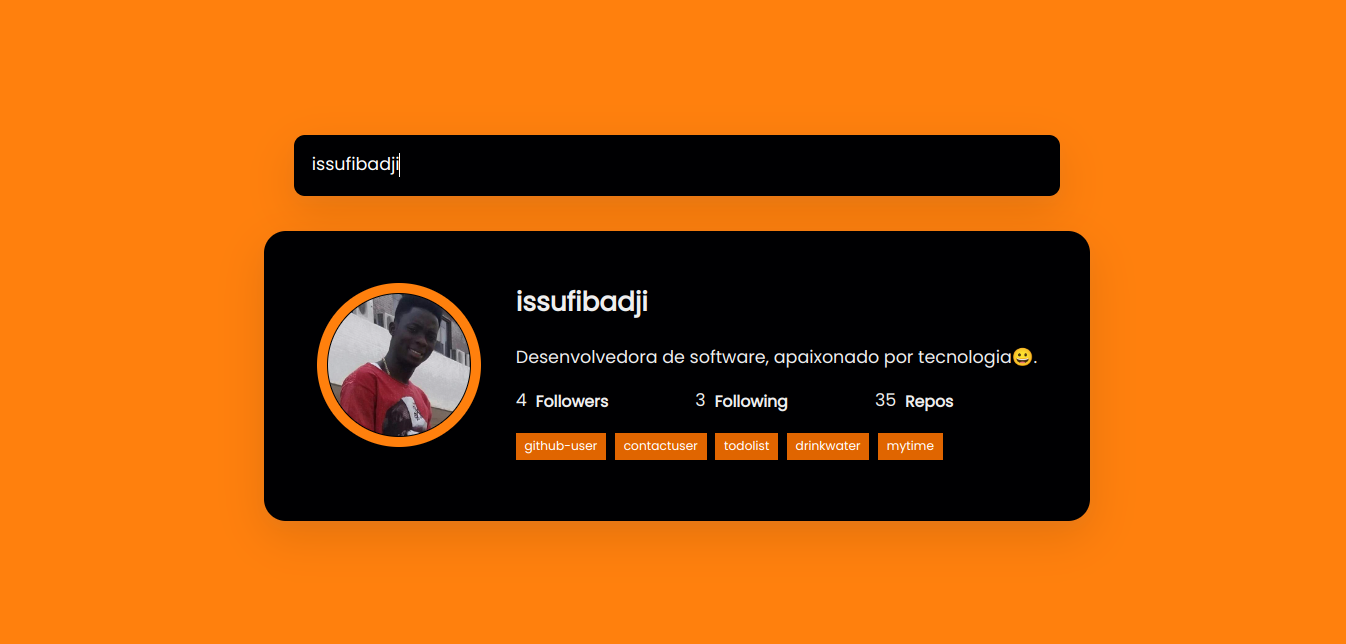
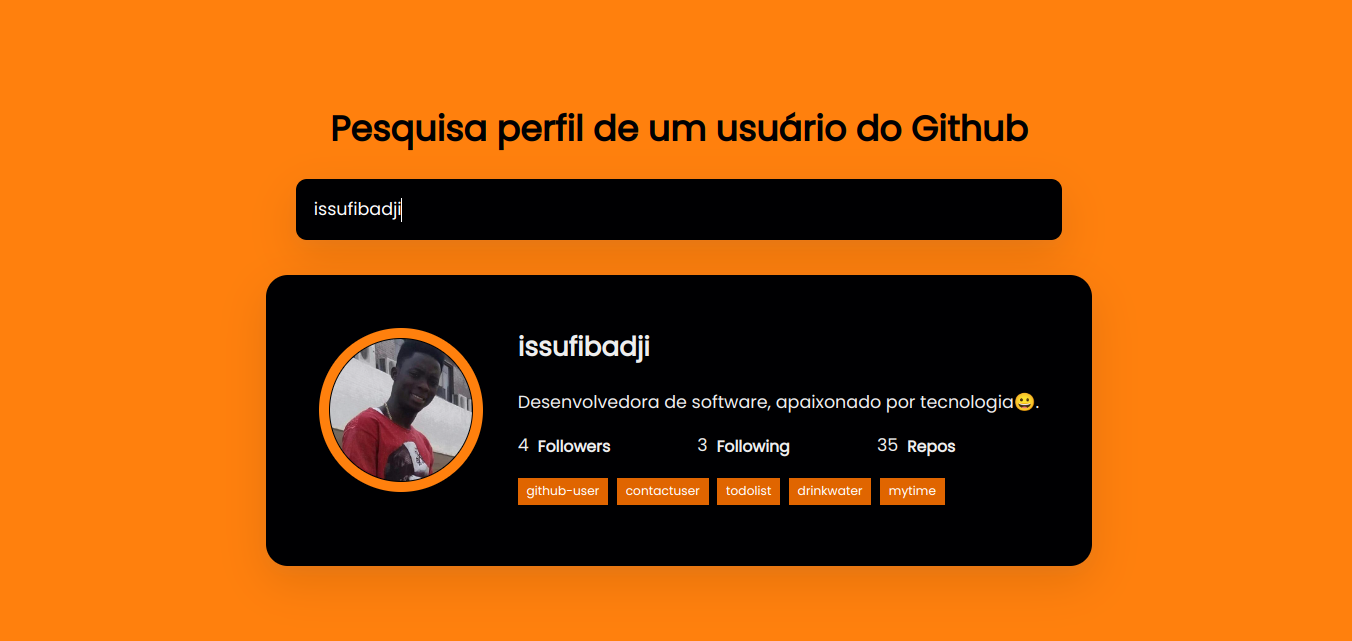
add img

Changed region(s): [[0.1872, 0.156, 0.8113, 0.78], [0.1872, 0.7488, 0.8113, 0.9048]]

diff --git a/index.html b/index.html
@@ -9,6 +9,7 @@
 </head>
 
 <body>
+    <h1>Pesquisa perfil de um usuário do Github</h1>
     <form class="user-form" id="form">
         <input type="text" id="search" placeholder="Pesquisar um usuário do Github">
     </form>

diff --git a/style.css b/style.css
@@ -16,6 +16,10 @@ body {
     margin: 0;
 }
 
+h1 {
+    color: #000002;
+}
+
 .user-form {
     width: 100%;
     max-width: 700px;
